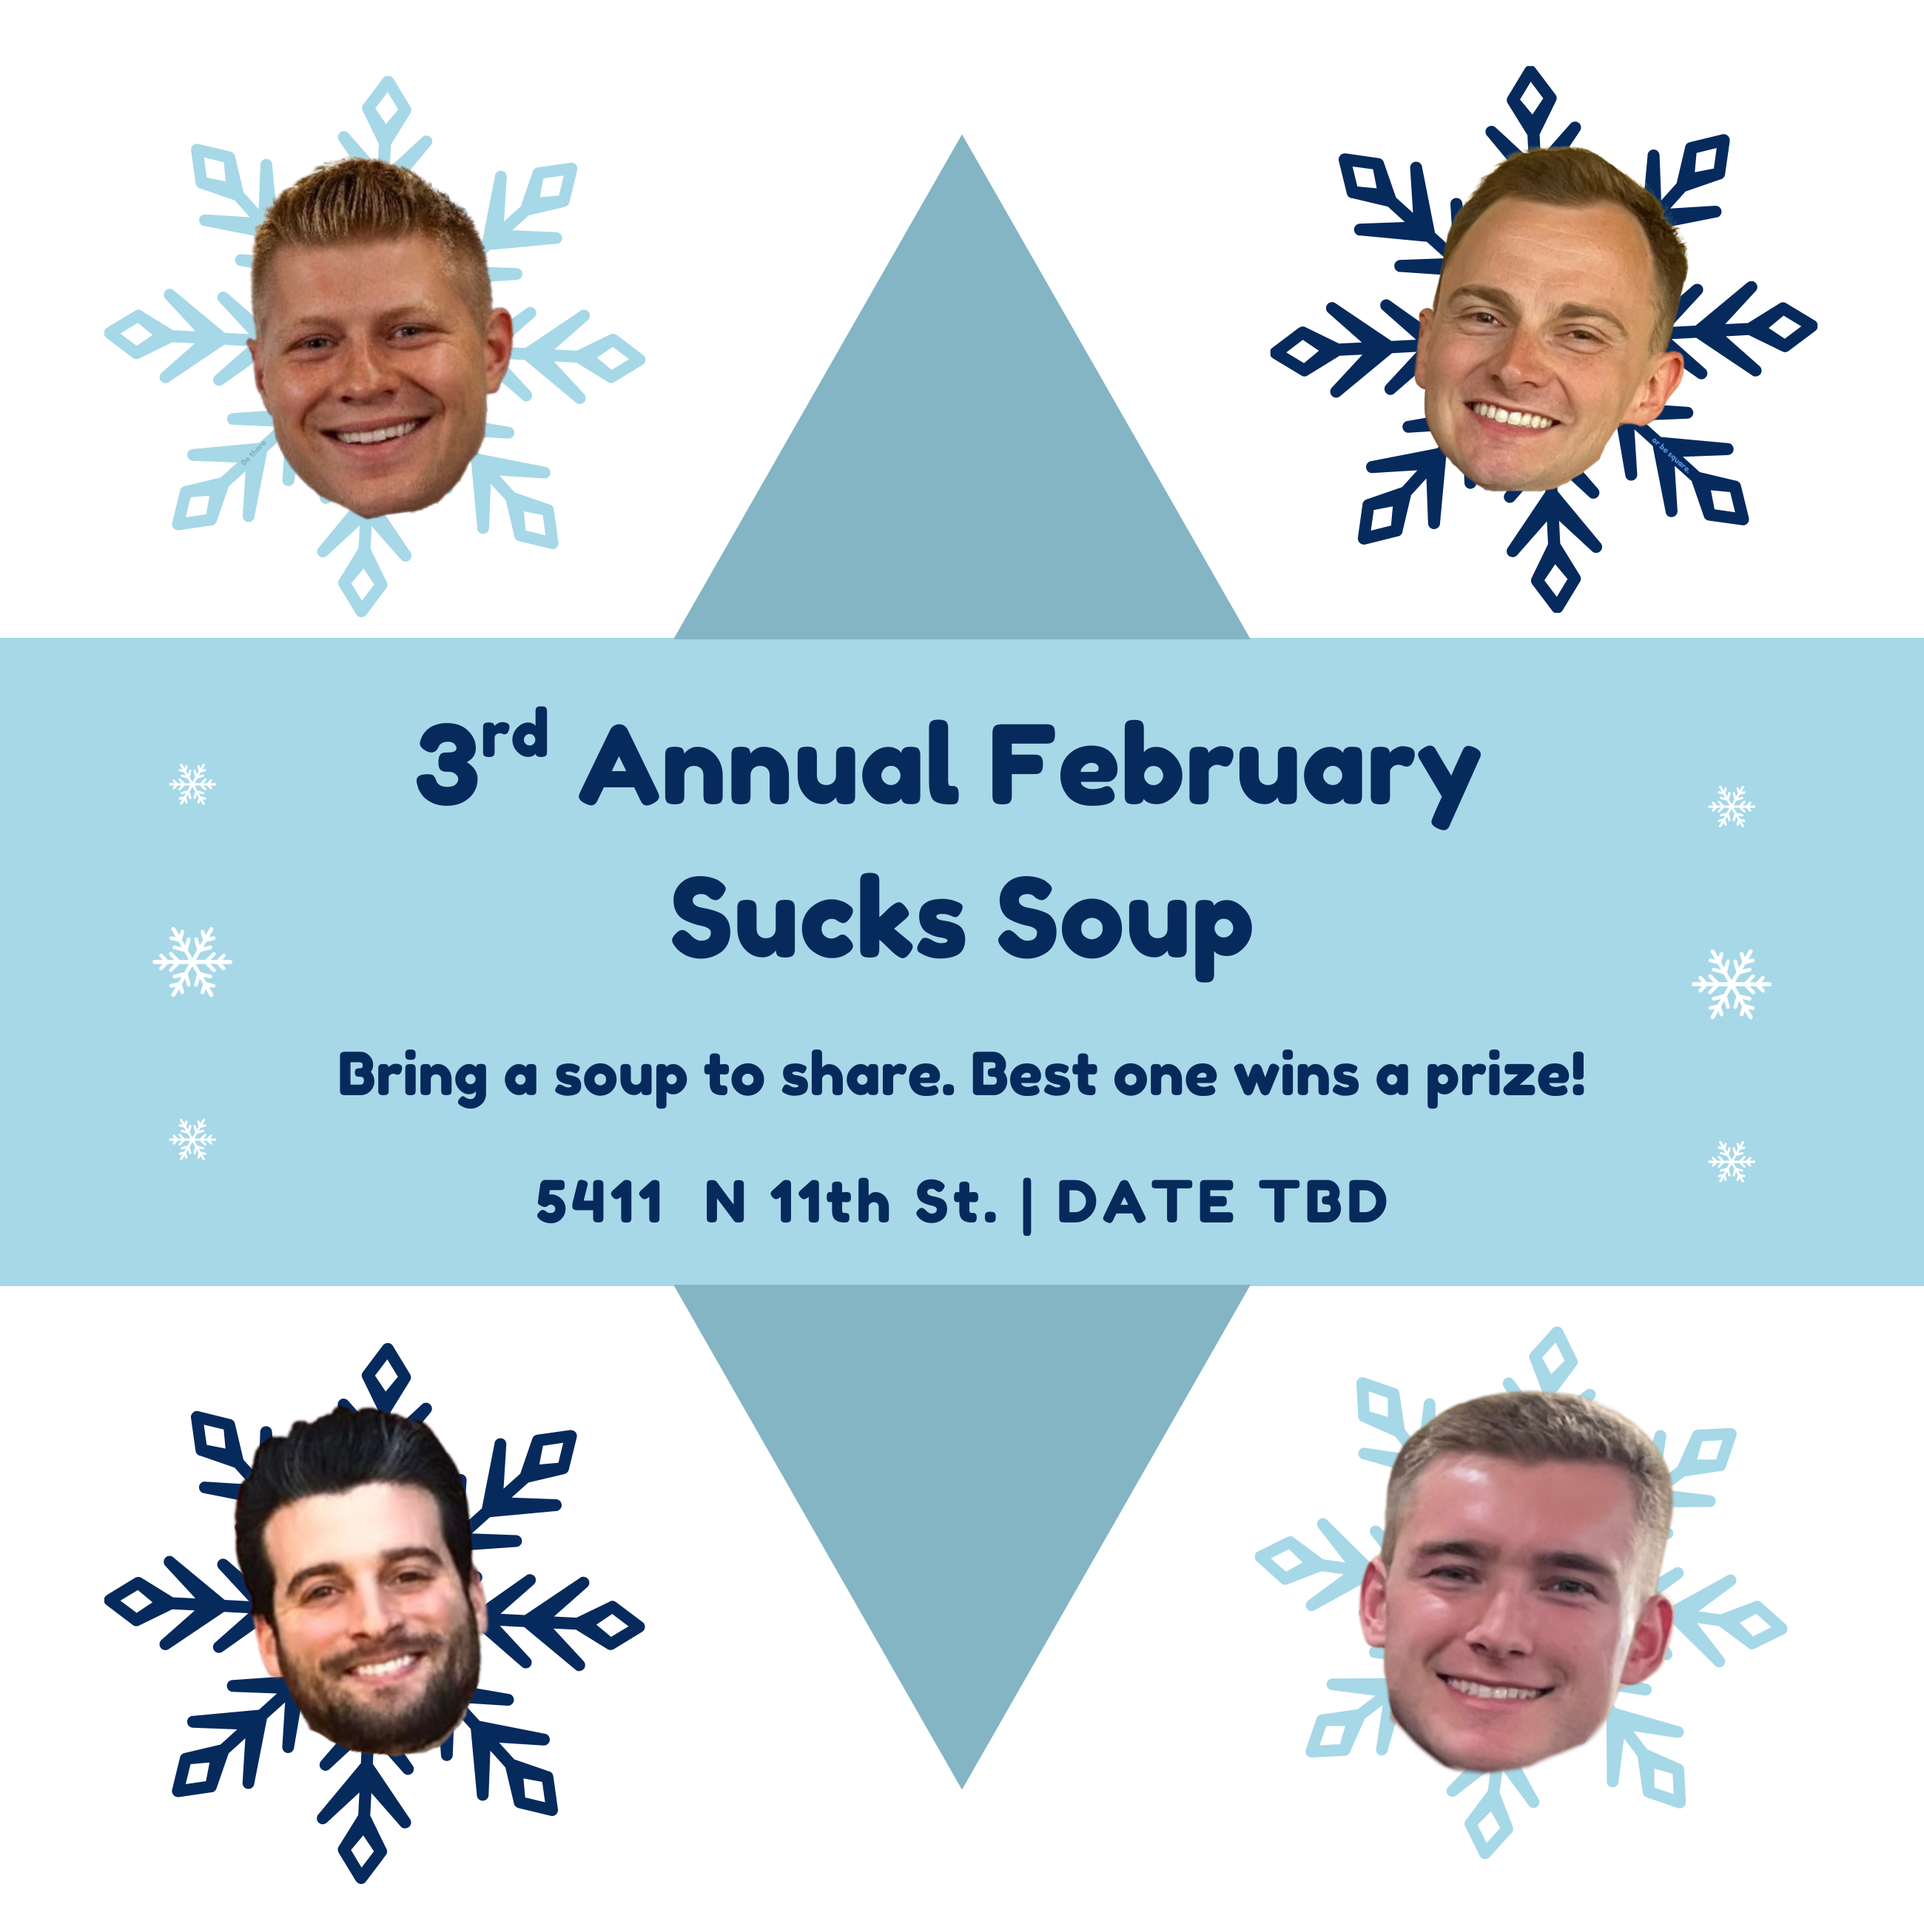
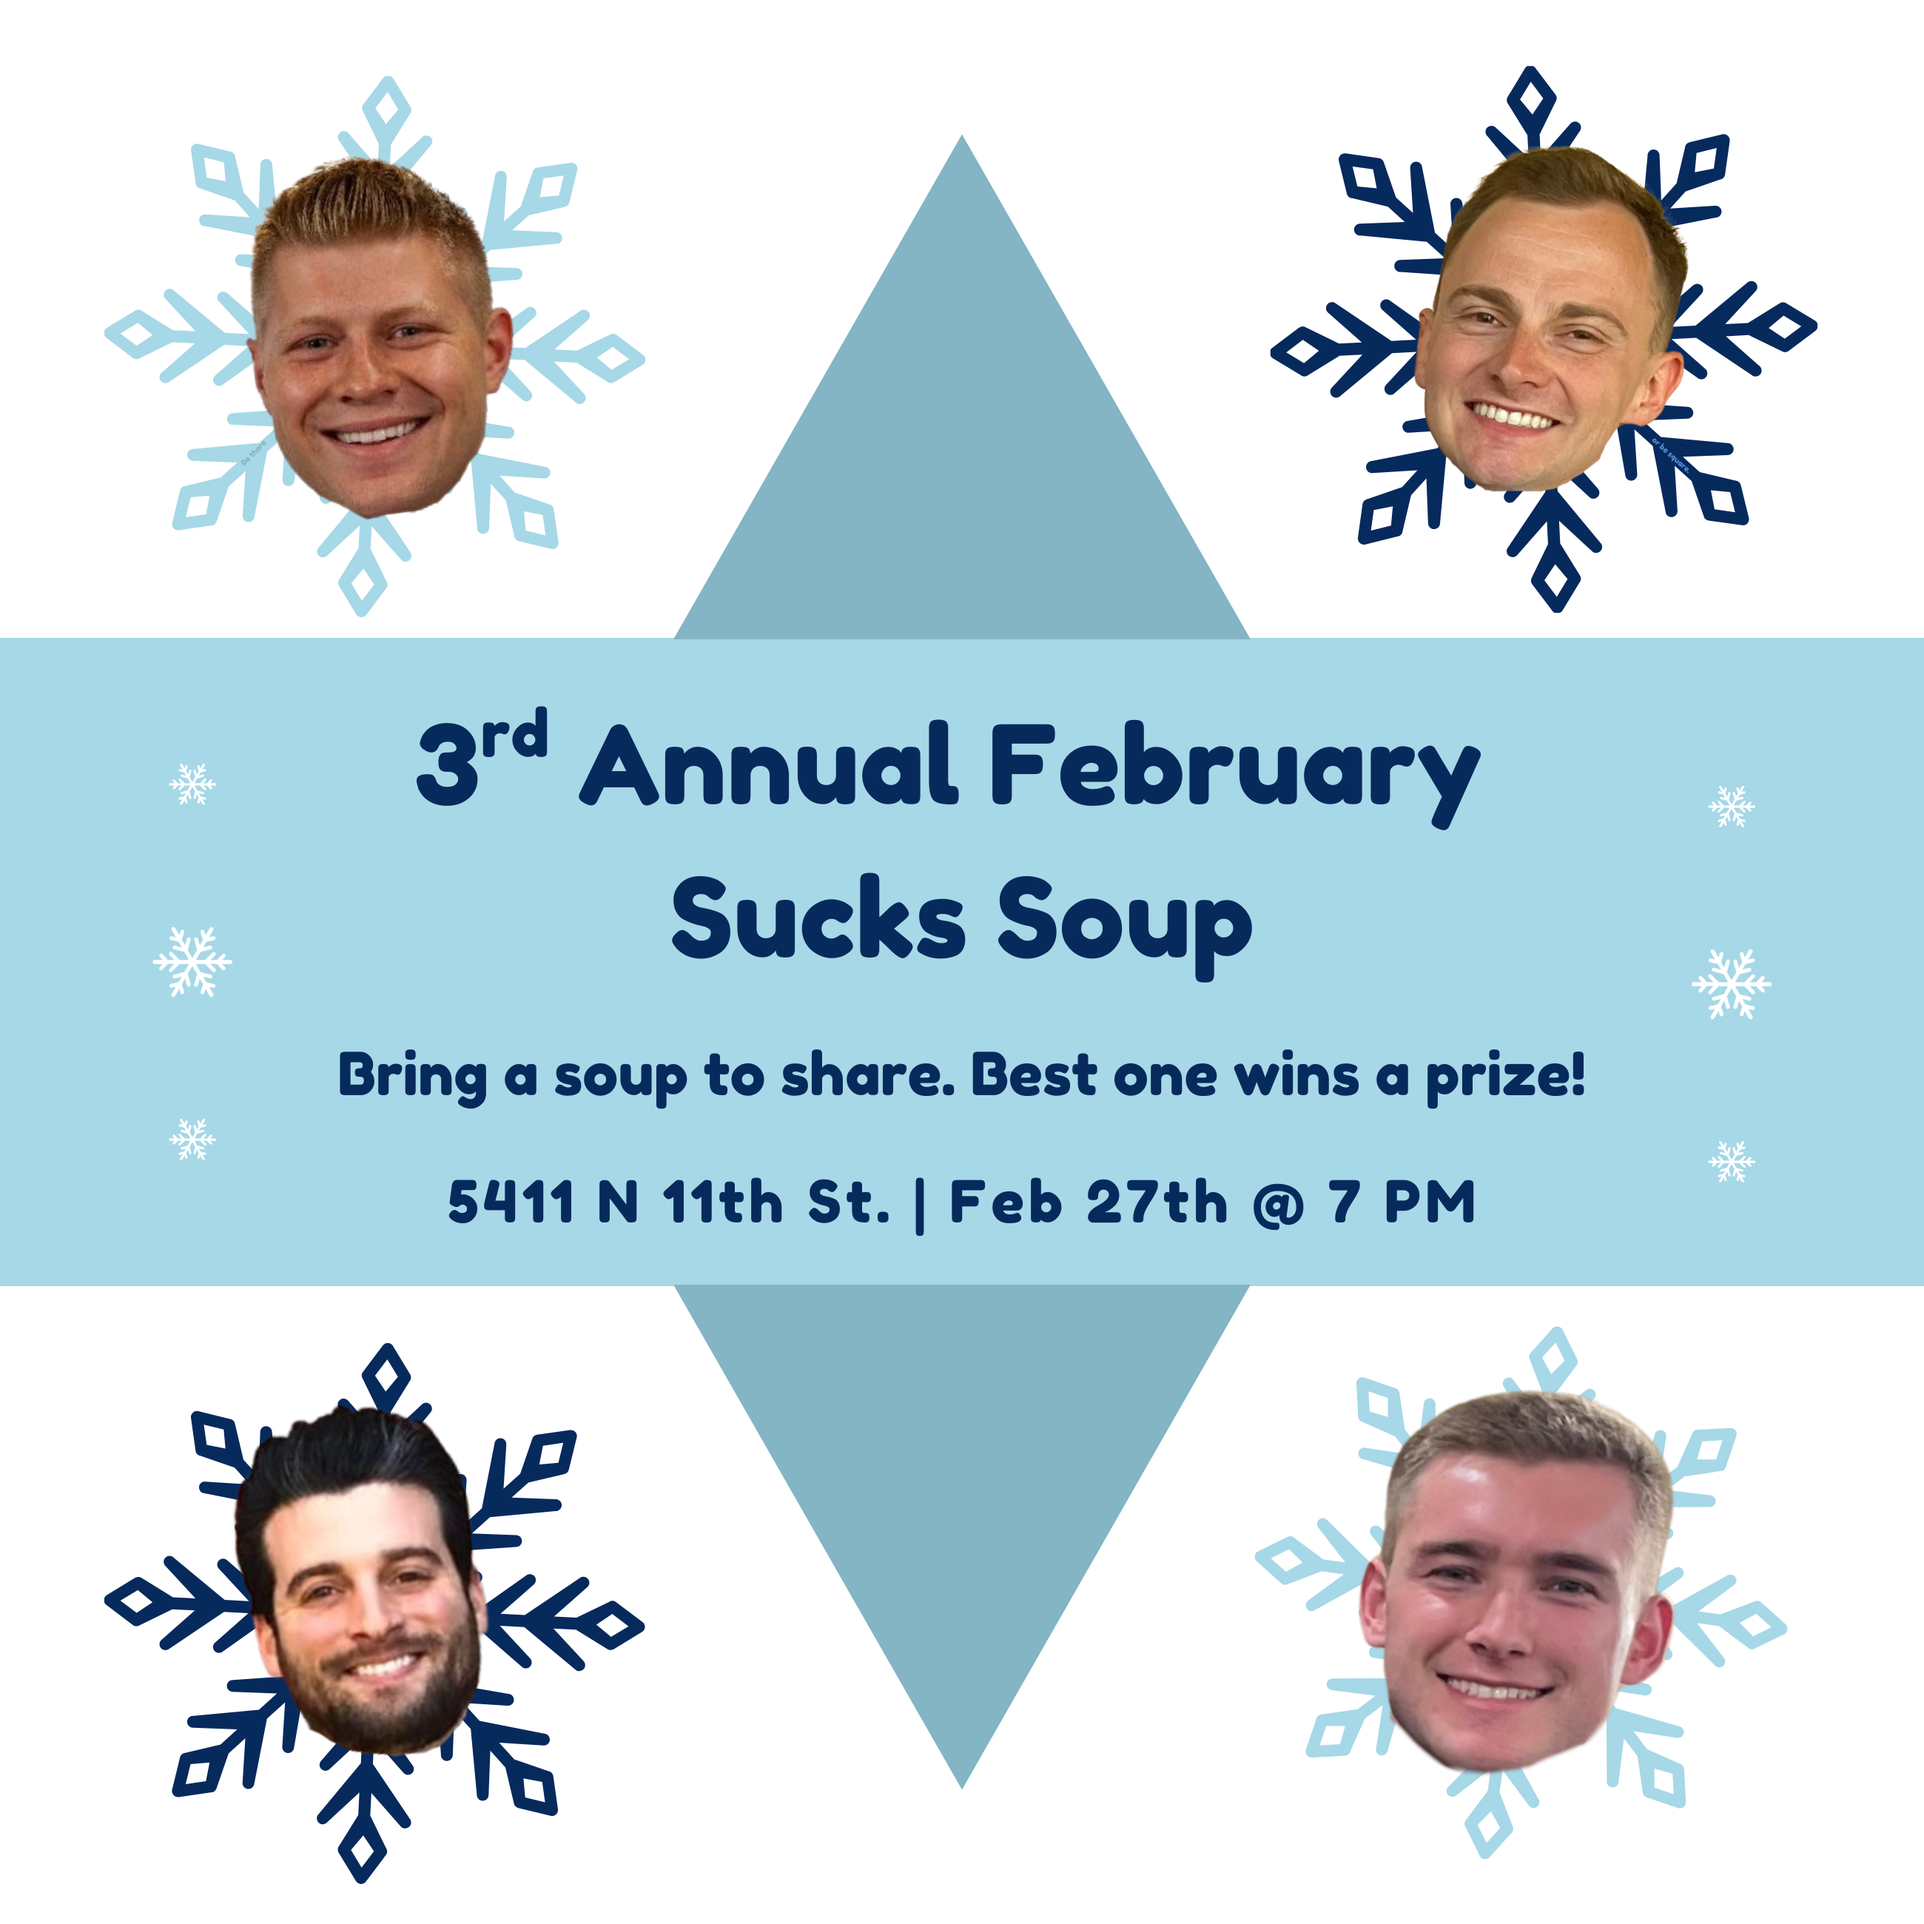
Update countdown date and assets

Changed region(s): [[0.2181, 0.5919, 0.7788, 0.6542]]

diff --git a/src/main.js b/src/main.js
@@ -22,12 +22,15 @@ Remember: hydrate between ladles!`;
 let tabs = [];
 let yearStages = [];
 let homeFlow = null;
+const PARTY_DATE = new Date('2026-02-27T19:00:00');
+const PARTY_DATE_LABEL = 'February 27, 2026 @ 7:00 PM';
 
 window.addEventListener('DOMContentLoaded', () => {
   cacheDom();
   wireTabs();
   wireHomeTriggers();
   wireCtas();
+  updateCountdown();
   showHome();
 });
 
@@ -101,5 +104,23 @@ function wireCtas() {
     document.body.removeChild(link);
     setTimeout(() => URL.revokeObjectURL(link.href), 500);
   });
+}
+
+function updateCountdown() {
+  const countdownValue = document.querySelector('.countdown-value');
+  const countdownDate = document.querySelector('.countdown-date');
+  if (!countdownValue || !countdownDate) return;
+
+  countdownDate.textContent = PARTY_DATE_LABEL;
+
+  const now = new Date();
+  const diffMs = PARTY_DATE.getTime() - now.getTime();
+  if (diffMs <= 0) {
+    countdownValue.textContent = 'Party time!';
+    return;
+  }
+
+  const days = Math.ceil(diffMs / (1000 * 60 * 60 * 24));
+  countdownValue.textContent = `${days} day${days === 1 ? '' : 's'}`;
 }
 

diff --git a/form.html b/form.html
@@ -77,3 +77,5 @@
 
 
 
+
+
